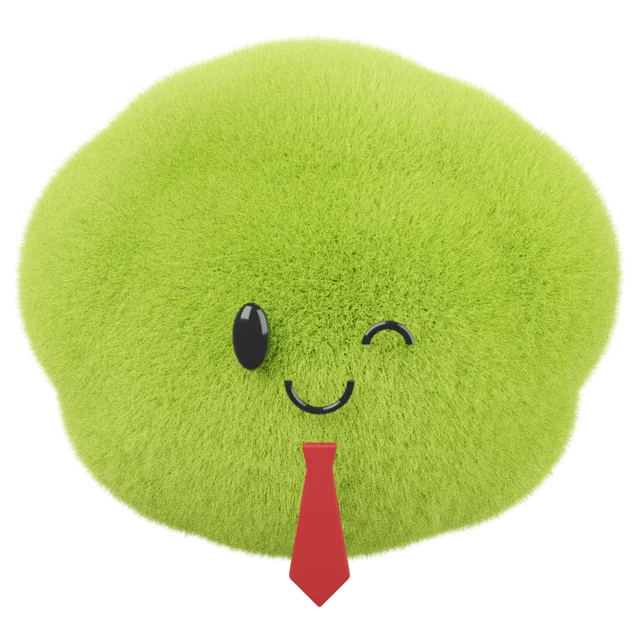
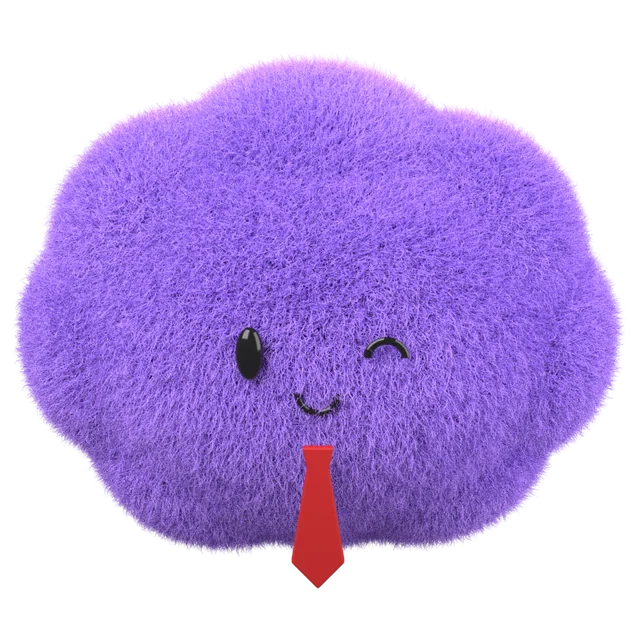
Violet électrique et jaune soleil, mascotte violette
- Couleur d'action : violet électrique (#7c3aed), boutons pleins texte
  blanc ; jaune soleil réservé au logo et aux pépites ; pied de page noir.
- Mascotte refaite dans Blender façon nuage de poils, en violet vif :
  diplômé, lunettes, surpris, clin d'œil (cravate).
- Le script Blender est versionné dans scripts/mascotte pour refaire
  des poses.
Contrastes vérifiés (axe-core, 12 pages, 0 problème).

Claude-Session: https://claude.ai/code/session_01SeSzAMq8u7YsTSBtYfPRHg

diff --git a/app/app.css b/app/app.css
@@ -4552,7 +4552,7 @@ label {
 .hero2__search:focus-within {
   border-color: var(--brand);
   box-shadow:
-    0 0 0 3px rgb(11 107 75 / 0.18),
+    0 0 0 3px rgb(124 58 237 / 0.22),
     0 12px 32px -20px rgb(15 31 26 / 0.35);
 }
 
@@ -4669,7 +4669,7 @@ label {
 
 .osearch__bar:focus-within {
   border-color: var(--brand);
-  box-shadow: 0 0 0 3px rgb(11 107 75 / 0.18);
+  box-shadow: 0 0 0 3px rgb(124 58 237 / 0.22);
 }
 
 /* ==========================================================================
@@ -4868,4 +4868,53 @@ label {
   .decoder__mascotte {
     display: none;
   }
+}
+
+/* ==========================================================================
+   Violet électrique pour agir (boutons pleins, texte blanc), jaune soleil pour
+   le logo et les pépites. Deux couleurs, pas plus ; le fond reste clair.
+   ========================================================================== */
+
+.btn,
+.hero2__go,
+.osearch__go,
+.locate .btn,
+.ui-btn--primary {
+  background: var(--brand);
+  border-color: var(--brand);
+  color: var(--brand-ink);
+}
+
+.btn:hover,
+.hero2__go:hover,
+.osearch__go:hover,
+.locate .btn:hover,
+.ui-btn--primary:hover {
+  background: var(--brand-dark);
+  border-color: var(--brand-dark);
+}
+
+.site-footer {
+  background: var(--ink);
+}
+
+.site-footer__note,
+.site-footer__last {
+  color: rgb(255 255 255 / 0.78);
+}
+
+.orow__new {
+  background: var(--mint);
+  color: var(--tint-1);
+}
+
+.orow.is-pepite,
+.orow.is-pepite:hover {
+  box-shadow: inset 4px 0 0 var(--accent);
+}
+
+.btn.btn--accent {
+  background: var(--accent);
+  border-color: var(--accent);
+  color: var(--accent-ink);
 }

diff --git a/app/globals.css b/app/globals.css
@@ -2,26 +2,26 @@
 
 /* ==========================================================================
    Décode : tokens
-   Direction « plateforme claire » : un fond blanc, un vert sapin pour agir, un vert citron
-   pour surligner ce qui compte, et quatre aplats pastel pour ranger les domaines et les outils.
+   Direction « plateforme claire » : un fond blanc, un violet électrique pour agir, un jaune
+   soleil pour surligner ce qui compte, et quatre aplats pastel pour ranger les domaines et les outils.
    ========================================================================== */
 
 :root {
   --bg: #ffffff;
   --surface: #f2f4f7;
-  --ink: #0f1f1a;
+  --ink: #15131c;
   --muted: #535d6b;
-  --brand: #0b6b4b;
-  --brand-dark: #07513a;
+  --brand: #7c3aed;
+  --brand-dark: #6d28d9;
   --brand-ink: #ffffff;
-  --accent: #d4f35a;
-  --accent-ink: #0f1f1a;
-  --field-2: #0b6b4b;
+  --accent: #ffd60a;
+  --accent-ink: #15131c;
+  --field-2: #7c3aed;
   --field-2-ink: #ffffff;
 
   /* Aplats pastel : un par domaine ou par outil, jamais pour le texte courant. */
-  --mint: #dff2e7;
-  --sky: #e1ecfd;
+  --mint: #ede9fe;
+  --sky: #dcf3ff;
   --peach: #fde2e8;
   --butter: #fff2bf;
 
@@ -33,12 +33,12 @@
   --notice-ink: #7a4b00;
   --positive: #1f7a4d;
 
-  --tint-1: #07513a;
-  --tint-2: #0b6b4b;
-  --tint-3: #3f8f6c;
-  --tint-4: #b7e04a;
-  --tint-5: #d4f35a;
-  --tint-6: #ebfab0;
+  --tint-1: #5b21b6;
+  --tint-2: #7c3aed;
+  --tint-3: #a78bfa;
+  --tint-4: #f5c400;
+  --tint-5: #ffd60a;
+  --tint-6: #fff4bf;
 
   /* L'appli : un fond gris très clair, neutre, et des cartes blanches. */
   --ground: #f7f8fa;

diff --git a/scripts/mascotte/decode.py b/scripts/mascotte/decode.py
@@ -1,0 +1,169 @@
+import bpy, bmesh, sys, math, json
+from mathutils import Vector
+argv = sys.argv[sys.argv.index('--')+1:]
+cfg = json.loads(argv[0])
+out = cfg['out']; res = cfg.get('res', 512); samples = cfg.get('samples', 48)
+acc = cfg.get('acc', [])            # 'cap','glasses','tie','bow'
+face = cfg.get('face', 'smile')     # smile, wink, surprised, neutral
+rotz = math.radians(cfg.get('rotz', 0)); hair = cfg.get('hair', True)
+LIME = (0.42, 0.78, 0.035, 1)  # lineaire
+
+bpy.ops.wm.read_factory_settings(use_empty=True)
+sc = bpy.context.scene
+
+def mat(name, color, rough=0.5, metal=0.0, sheen=0.0):
+    m = bpy.data.materials.new(name); m.use_nodes = True
+    b = m.node_tree.nodes['Principled BSDF']
+    b.inputs['Base Color'].default_value = color
+    b.inputs['Roughness'].default_value = rough
+    b.inputs['Metallic'].default_value = metal
+    if sheen: b.inputs['Sheen Weight'].default_value = sheen
+    return m
+
+# --- Corps : des sphères fondues en une forme de nuage, puis lissée.
+blobs = [((0,0,-0.02),(1.05,0.9,0.85)),
+         ((-0.62,0,0.32),(0.5,0.5,0.5)), ((0,0,0.55),(0.58,0.55,0.5)), ((0.62,0,0.32),(0.5,0.5,0.5)),
+         ((-0.88,0,-0.12),(0.42,0.45,0.45)), ((0.88,0,-0.12),(0.42,0.45,0.45)),
+         ((-0.5,0,-0.55),(0.5,0.5,0.42)), ((0.5,0,-0.55),(0.5,0.5,0.42)), ((0,0.05,-0.62),(0.5,0.5,0.38))]
+parts = []
+for loc,sc_ in blobs:
+    bpy.ops.mesh.primitive_uv_sphere_add(radius=1, location=loc, segments=48, ring_count=24)
+    o = bpy.context.object; o.scale = sc_; parts.append(o)
+for o in parts: o.select_set(True)
+bpy.context.view_layer.objects.active = parts[0]
+bpy.ops.object.join()
+body = bpy.context.object; body.name = 'Corps'
+bpy.ops.object.transform_apply(scale=True)
+rm = body.modifiers.new('rm','REMESH'); rm.mode='VOXEL'; rm.voxel_size=0.035
+bpy.ops.object.modifier_apply(modifier='rm')
+sm = body.modifiers.new('sm','SMOOTH'); sm.iterations=4; sm.factor=0.5
+bpy.ops.object.modifier_apply(modifier='sm')
+bpy.ops.object.shade_smooth()
+body.data.materials.append(mat('peau', tuple(cfg.get('root',(0.18,0.40,0.01)))+(1,), 0.8))
+
+# --- Fourrure : poils courts et denses.
+if hair:
+    ps = body.modifiers.new('fur','PARTICLE_SYSTEM').particle_system
+    s = ps.settings; s.type='HAIR'; s.count = cfg.get('count', 7000); s.hair_length = cfg.get('fur', 0.24)
+    s.use_advanced_hair = True; s.child_type='INTERPOLATED'; s.rendered_child_count = cfg.get('children', 30)
+    s.child_length = 1.0; s.roughness_1 = 0.07; s.roughness_2 = 0.12; s.roughness_endpoint = 0.06; s.roughness_2_size = 0.6
+    s.clump_factor = 0.45; s.clump_shape = -0.2; s.kink = 'NO'
+    s.root_radius = 1.0; s.tip_radius = 0.0; s.radius_scale = 0.014
+    s.display_step = 3; s.render_step = 3
+    if 'cap' in acc:
+        vg = body.vertex_groups.new(name='densite')
+        for v in body.data.vertices:
+            vg.add([v.index], 0.15 if (v.co.z > 0.7 and abs(v.co.x) < 0.6 and v.normal.z > 0.3) else 1.0, 'REPLACE')
+        ps.vertex_group_length = 'densite'
+    hm = bpy.data.materials.new('poils'); hm.use_nodes=True
+    nt = hm.node_tree; nt.nodes.clear()
+    o_ = nt.nodes.new('ShaderNodeOutputMaterial'); h = nt.nodes.new('ShaderNodeBsdfPrincipled')
+    hi = nt.nodes.new('ShaderNodeHairInfo'); ramp = nt.nodes.new('ShaderNodeValToRGB')
+    ramp.color_ramp.elements[0].color = tuple(cfg.get('root',(0.18,0.40,0.01))) + (1,); ramp.color_ramp.elements[1].color = tuple(cfg.get('tip',(0.72,1.0,0.1))) + (1,)
+    nt.links.new(hi.outputs['Intercept'], ramp.inputs[0]); nt.links.new(ramp.outputs[0], h.inputs['Base Color'])
+    h.inputs['Roughness'].default_value = 0.55
+    nt.links.new(h.outputs[0], o_.inputs[0])
+    body.data.materials.append(hm); s.material = 2
+
+# --- Visage.
+black = mat('noir', (0.005,0.005,0.006,1), 0.12)
+def eye(x, closed=False, big=1.0):
+    if closed:
+        bpy.ops.curve.primitive_bezier_circle_add(radius=0.09, location=(x, -1.02, 0.28))
+        c = bpy.context.object; c.data.bevel_depth = 0.014; c.rotation_euler=(math.radians(90),0,0)
+        c.scale=(1,0.45,1); c.data.materials.append(black)
+        # ne garder que l'arc haut
+        return c
+    bpy.ops.mesh.primitive_uv_sphere_add(radius=0.09*big, location=(x, -1.12, 0.12))
+    e = bpy.context.object; e.scale=(0.7,0.5,1.35); bpy.ops.object.shade_smooth(); e.data.materials.append(black)
+    return e
+if face == 'wink':
+    eye(-0.3); 
+    bpy.ops.mesh.primitive_torus_add(major_radius=0.085, minor_radius=0.018, location=(0.3,-1.14,0.1), rotation=(math.radians(90),0,0))
+    w = bpy.context.object; w.scale=(1,1,0.75); w.data.materials.append(black)
+    bpy.ops.mesh.primitive_cube_add(size=0.3, location=(0.3,-1.14,-0.04)); cutw = bpy.context.object
+    bw = w.modifiers.new('cut','BOOLEAN'); bw.object = cutw; bw.operation='DIFFERENCE'
+    bpy.context.view_layer.objects.active = w; bpy.ops.object.modifier_apply(modifier='cut'); bpy.data.objects.remove(cutw)
+else:
+    big = 1.25 if face=='surprised' else 1.0
+    eye(-0.3, big=big); eye(0.3, big=big)
+if face == 'surprised':
+    bpy.ops.mesh.primitive_torus_add(major_radius=0.05, minor_radius=0.014, location=(0,-1.14,-0.14), rotation=(math.radians(90),0,0))
+    bpy.context.object.data.materials.append(black)
+elif face != 'neutral':
+    bpy.ops.mesh.primitive_torus_add(major_radius=0.09, minor_radius=0.016, location=(0,-1.13,-0.06), rotation=(math.radians(90),0,0))
+    m_ = bpy.context.object; m_.data.materials.append(black)
+    # garder la moitié basse : on coupe avec un booléen
+    bpy.ops.mesh.primitive_cube_add(size=0.4, location=(0,-1.13,0.14)); cut = bpy.context.object
+    b = m_.modifiers.new('cut','BOOLEAN'); b.object = cut; b.operation='DIFFERENCE'
+    bpy.context.view_layer.objects.active = m_; bpy.ops.object.modifier_apply(modifier='cut')
+    bpy.data.objects.remove(cut)
+
+# --- Accessoires.
+if 'cap' in acc:
+    felt = mat('feutre', (0.006,0.006,0.008,1), 1.0); felt.node_tree.nodes['Principled BSDF'].inputs['Specular IOR Level'].default_value = 0.05
+    gold = mat('or', (0.55,0.36,0.08,1), 0.35, metal=0.6)
+    bpy.ops.mesh.primitive_cylinder_add(radius=0.62, depth=0.42, location=(0,0,0.9), vertices=4, rotation=(0,0,math.radians(45)))
+    c1 = bpy.context.object; c1.scale=(1,1,1); c1.data.materials.append(felt)
+    bv = c1.modifiers.new('bv','BEVEL'); bv.width=0.02; bv.segments=3
+    bpy.ops.mesh.primitive_cube_add(size=1, location=(0,0,1.12)); top = bpy.context.object
+    top.scale=(1.8,1.8,0.06); top.rotation_euler=(math.radians(5),0,math.radians(8)); top.data.materials.append(felt)
+    bv = top.modifiers.new('bv','BEVEL'); bv.width=0.015; bv.segments=3
+    bpy.ops.mesh.primitive_cylinder_add(radius=0.07, depth=0.05, location=(0,-0.07,1.18)); bpy.context.object.data.materials.append(felt)
+    # gland : cordon + houppe
+    bpy.ops.curve.primitive_bezier_curve_add(location=(0,0,0)); cord = bpy.context.object
+    sp = cord.data.splines[0]; p0, p1 = sp.bezier_points
+    p0.co=(0,-0.07,1.2); p0.handle_left=(-0.1,-0.07,1.2); p0.handle_right=(0.5,-0.4,1.14)
+    p1.co=(0.85,-0.85,0.92); p1.handle_left=(0.86,-0.84,1.04); p1.handle_right=(0.85,-0.85,0.77)
+    cord.data.bevel_depth=0.012; cord.data.materials.append(gold)
+    bpy.ops.mesh.primitive_cone_add(radius1=0.06, radius2=0.015, depth=0.35, location=(0.85,-0.85,0.72)); bpy.context.object.data.materials.append(gold)
+if 'glasses' in acc:
+    yel = mat('jaune', (0.85,0.6,0.02,1), 0.3)
+    for x in (-0.3,0.3):
+        bpy.ops.mesh.primitive_torus_add(major_radius=0.19, minor_radius=0.028, location=(x,-1.2,0.12), rotation=(math.radians(90),0,0))
+        bpy.context.object.data.materials.append(yel)
+    bpy.ops.mesh.primitive_cylinder_add(radius=0.02, depth=0.18, location=(0,-1.2,0.16), rotation=(0,math.radians(90),0)); bpy.context.object.data.materials.append(yel)
+if 'tie' in acc:
+    red = mat('cravate', (0.42,0.008,0.01,1), 0.55)
+    bm = bmesh.new()
+    pts=[(-0.07,0,-0.20),(0.07,0,-0.20),(0.05,0,-0.30),(0.12,0,-0.75),(0,0,-0.88),(-0.12,0,-0.75),(-0.05,0,-0.30)]
+    vs=[bm.verts.new(p) for p in pts]; bm.faces.new(vs)
+    me=bpy.data.meshes.new('tie'); bm.to_mesh(me); t=bpy.data.objects.new('tie',me); sc.collection.objects.link(t)
+    t.location=(0,-1.18,-0.08); t.data.materials.append(red)
+    so=t.modifiers.new('so','SOLIDIFY'); so.thickness=0.04; bv=t.modifiers.new('bv','BEVEL'); bv.width=0.01; bv.segments=2
+if 'bow' in acc:
+    pur = mat('noeud', (0.25,0.04,0.55,1), 0.6, sheen=0.3)
+    for x in (-0.13,0.13):
+        bpy.ops.mesh.primitive_cone_add(radius1=0.11, radius2=0.03, depth=0.2, location=(x,-1.08,-0.2), rotation=(0,math.radians(90 if x<0 else -90),0), vertices=24)
+        o=bpy.context.object; o.scale=(1,0.6,1); bpy.ops.object.shade_smooth(); o.data.materials.append(pur)
+    bpy.ops.mesh.primitive_uv_sphere_add(radius=0.045, location=(0,-1.1,-0.2)); bpy.context.object.data.materials.append(pur)
+
+# Tout tourne ensemble.
+bpy.ops.object.empty_add(location=(0,0,0)); root = bpy.context.object
+for o in list(sc.objects):
+    if o != root and o.type in ('MESH','CURVE'): o.parent = root
+root.rotation_euler = (0,0,rotz)
+
+# --- Lumière et caméra.
+def area(loc, e, size, rot):
+    bpy.ops.object.light_add(type='AREA', location=loc, rotation=rot); l=bpy.context.object; l.data.energy=e; l.data.size=size
+area((-3,-4,4), 900, 5, (math.radians(50),0,math.radians(-35)))
+area((4,-2,1.5), 350, 4, (math.radians(75),0,math.radians(60)))
+area((0,4,3), 1400, 3, (math.radians(-120),0,0))
+area((-3,3,-1), 500, 3, (math.radians(-80),0,math.radians(-140)))
+bpy.ops.object.camera_add(location=(0,-7.0,1.9), rotation=(math.radians(76),0,0)); cam=bpy.context.object; sc.camera=cam
+cam.data.lens = 60
+w = bpy.data.worlds.new('w'); sc.world=w; w.use_nodes=True; w.node_tree.nodes['Background'].inputs[0].default_value=(0.55,0.55,0.55,1); w.node_tree.nodes['Background'].inputs[1].default_value=0.6
+
+sc.render.engine='CYCLES'; sc.cycles.device='CPU'; sc.cycles.samples=samples; sc.cycles.use_denoising=False
+sc.render.film_transparent=True; sc.render.resolution_x=sc.render.resolution_y=res
+sc.view_settings.view_transform='AgX' if 'AgX' in [i.identifier for i in sc.view_settings.bl_rna.properties['view_transform'].enum_items] else 'Filmic'
+sc.render.image_settings.color_mode='RGBA'
+try:
+    sc.view_settings.look = 'AgX - Punchy'
+except Exception:
+    pass
+if cfg.get('vivid'):
+    sc.view_settings.view_transform = 'Standard'; sc.view_settings.look = 'None'; sc.view_settings.exposure = -0.35
+sc.render.filepath=out
+bpy.ops.render.render(write_still=True)

diff --git a/scripts/mascotte/README.md b/scripts/mascotte/README.md
@@ -1,0 +1,15 @@
+# Mascotte Décode (Blender)
+
+`decode.py` modélise et rend la mascotte : un nuage de poils, deux yeux, une bouche, et un accessoire.
+
+```sh
+blender -b --factory-startup -P scripts/mascotte/decode.py -- \
+  '{"out":"/tmp/diplome.png","res":1024,"samples":64,"acc":["cap"],"face":"smile","vivid":true,"count":9000,"children":40,"root":[0.12,0.02,0.5],"tip":[0.55,0.3,1.0]}'
+```
+
+- `acc` : `cap` (toque), `glasses` (lunettes), `tie` (cravate), `bow` (nœud papillon), ou `[]`.
+- `face` : `smile`, `wink`, `surprised`, `neutral`.
+- `root` / `tip` : couleur des poils à la racine et à la pointe (RVB linéaire). Violet du site : ci-dessus.
+- Rendu CPU (Cycles, sans débruitage) : environ 1 min 30 par pose en 1024 px.
+
+Ensuite, recadrer et exporter en WebP 640 px dans `public/decode/<pose>.webp`.
